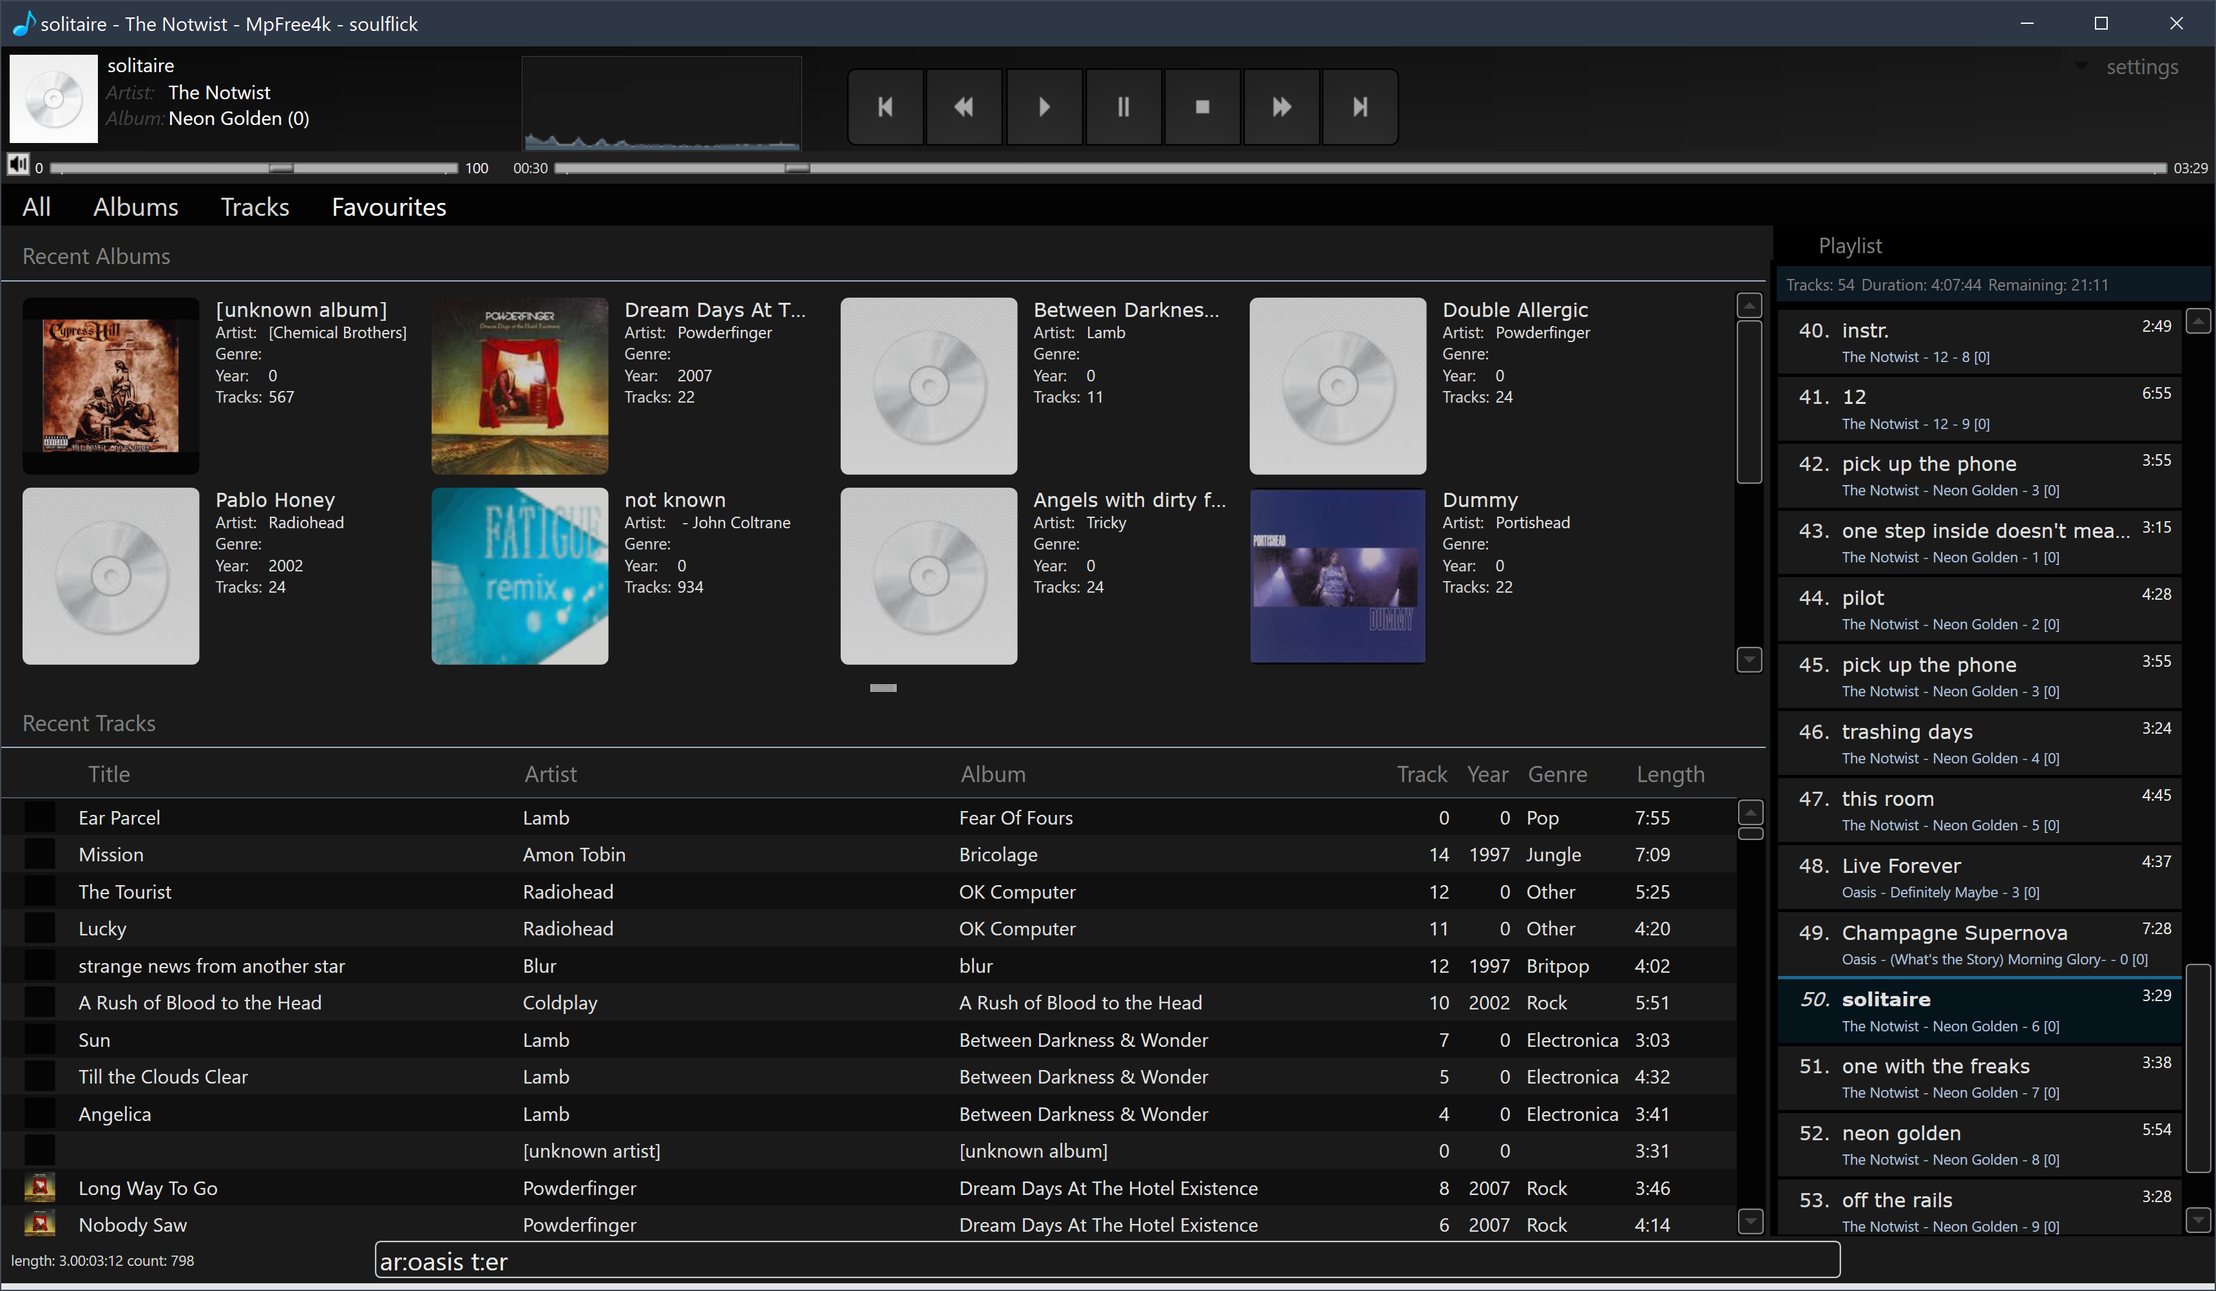
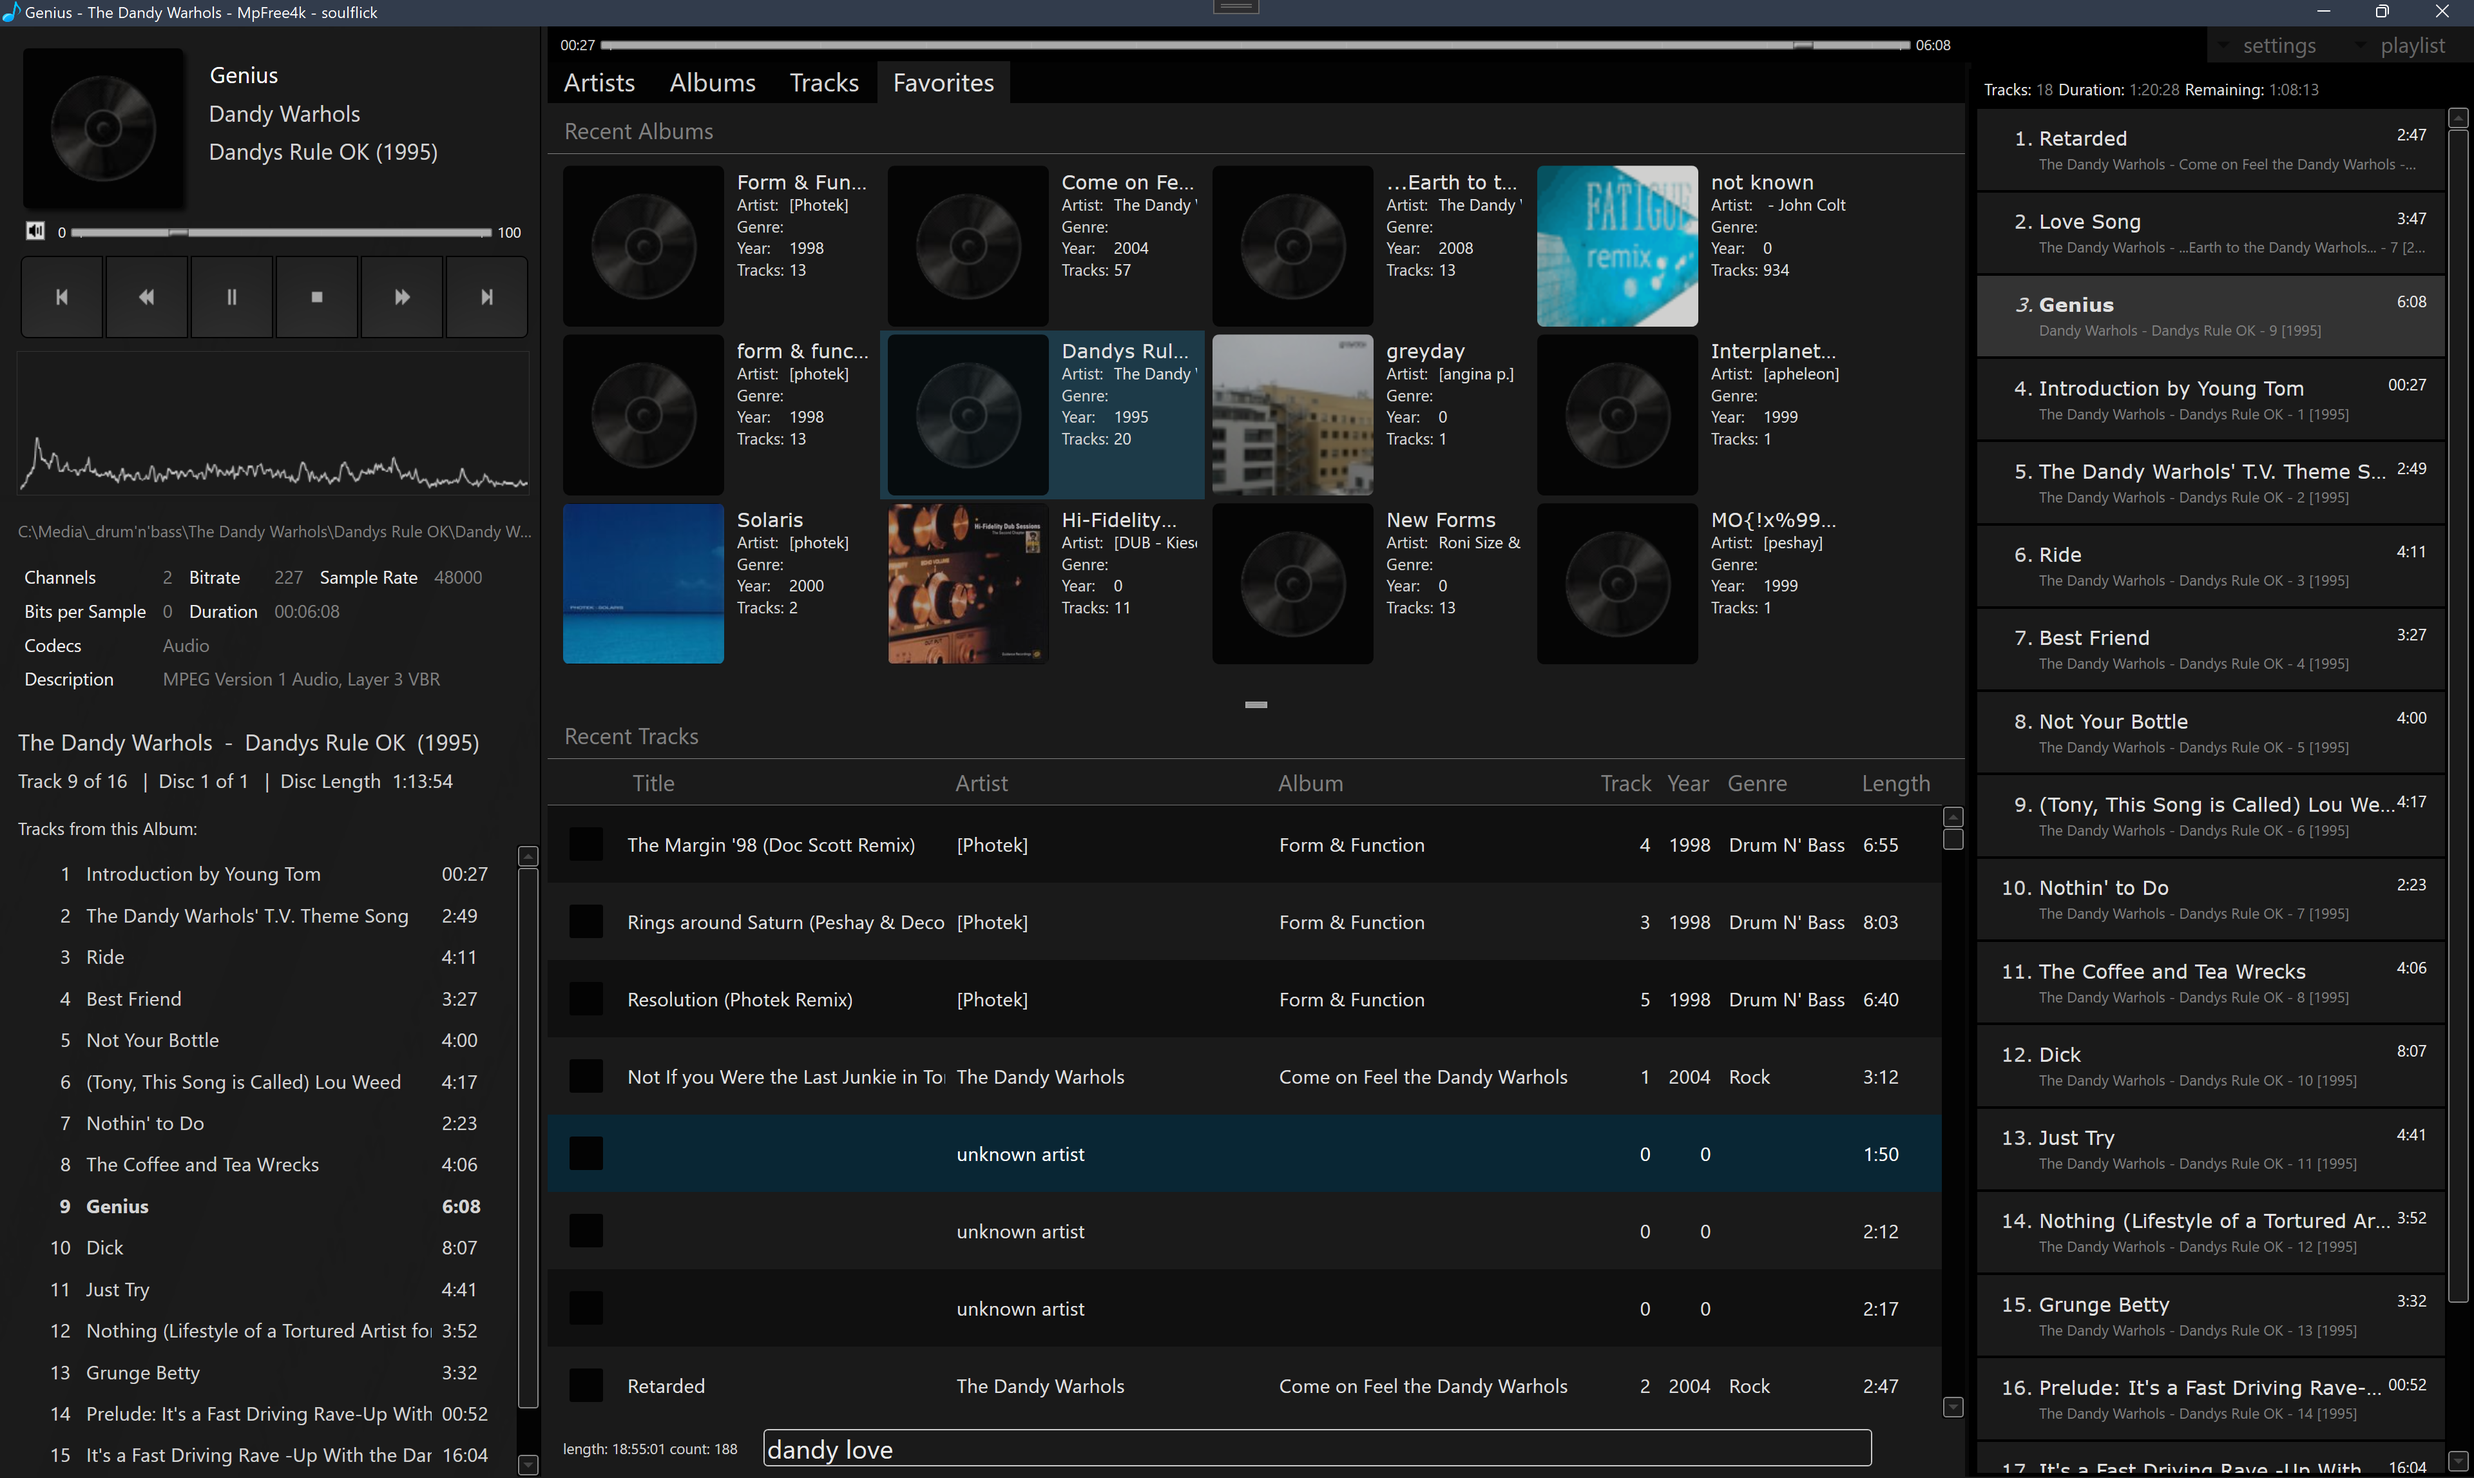
README with Images

diff --git a/README.md b/README.md
@@ -1,13 +1,21 @@
 # soulflick/mpFree4k_v2
  New Version 2 repository of MpFree4k
 
-mpFree4k v2.0 (2021)
+mpFree4k v2.4 (2022)
 =============================================================================
 
 Free Scalable Offline Windows MP3 Player for all Screens
-Version: 2.0 / 2021
+Version: 2.4 / 2022
 Author : soulflick
 Website: www.soulflick.com
+
+-----------------------------------------------------------------------------
+
+![alt text](https://github.com/soulflick/soulflick-mpFree4k_v2/blob/main/Screenshots/artists.png?raw=true)
+
+-----------------------------------------------------------------------------
+
+![alt text](https://github.com/soulflick/soulflick-mpFree4k_v2/blob/main/Screenshots/albums.png?raw=true)
 
 -----------------------------------------------------------------------------
 
@@ -24,12 +32,14 @@ Website: www.soulflick.com
 - Export playlist to drive location
 - Scale Fonts from "Very Small" to "Huge", which scales the interface, depending 
   on your screen resolution.
+- Select Padding to use the Player on tables
+- Interoperability between playing tracks and corresponding albums
 - Five pre-defined skins: from "White", over "Blue" to "Black".
 - All information about your consumation is kept locally to allow yourself to
   define your most favourite songs and albums.
 - Written in .Net / WPF using Microsoft Windows Media Player Library (wmplib)
   and CSCore.
-- Usage of SQLIte to store your favourites.
+- Usage of SQLite to store your favourites.
 - Reading of mp3 tags with "taglib.sharp" library.
 - Two Plugins to choose:
 * Windows Media Player Libary (WMPLib) to access all known formats
